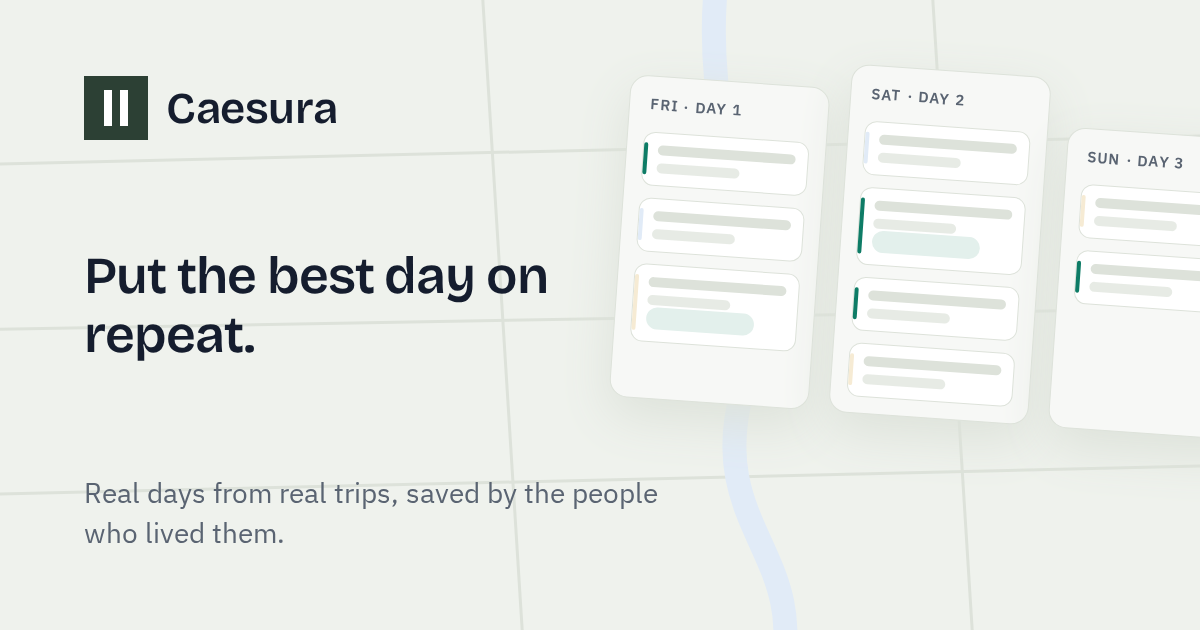
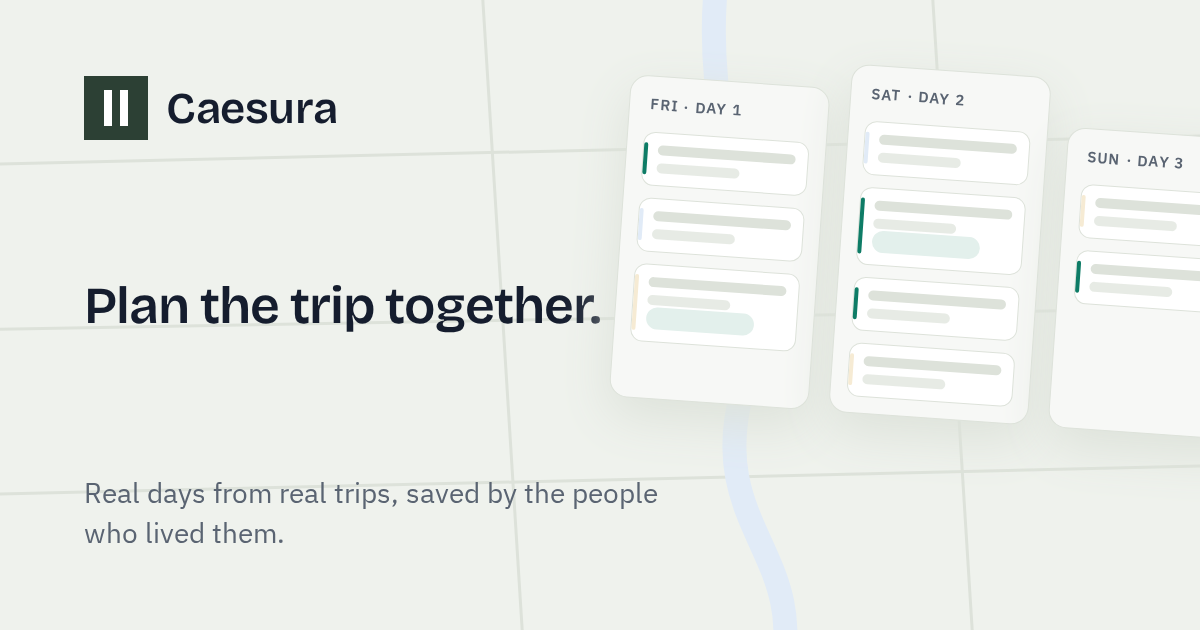
fix(front): M50 part 1, copy fixes end to end
The H1 becomes "Plan the trip together." on both trees, the site
description, OG alt and regenerated OG card. The signup footnote drops the
open-source line (here and in the design handoff), the admission refusals
say codes are optional and only earn referral credit, /developers loses its
prose em dashes and says "sign up", the Playbooks drawing's "Relived 214
times" carries a Sample badge, and the trip assistant gets a standing tone
line with the context-budget baseline regenerated.

Claude-Session: https://claude.ai/code/session_011DjbmukN8wKo3o3BUNFqzM

Changed region(s): [[0.0617, 0.3921, 0.4933, 0.573]]

diff --git a/apps/web/src/components/front/LandingFeatureBlocks.failed.test.tsx b/apps/web/src/components/front/LandingFeatureBlocks.failed.test.tsx
@@ -1,13 +1,15 @@
 import { UNBUILT_SOCIAL } from "@/test-support/unbuiltSocial";
 import { cleanup, render, screen, waitFor, within } from "@testing-library/react";
-import { afterEach, describe, expect, it, vi } from "vitest";
+import { afterEach, describe, expect, it, vi, type MockInstance } from "vitest";
 import { LandingFeatureBlocks } from "./LandingFeatureBlocks";
+import { PhoneFrontDoor } from "./PhoneFrontDoor";
 
 // The real panels' code never arrives (a deploy replaced the chunk, the network
 // dropped). `Suspense` does not catch a rejected `lazy` import, so without a
 // boundary of its own each block would take the front door to
 // `app/global-error.tsx`. A file of its own because `lazy` resolves once per
-// module (`LandingHeroArt.failed.test.tsx`, same reason).
+// module (`LandingHeroArt.failed.test.tsx`, same reason). The phone front door
+// draws its Playbooks fallback through the same module, so it is here too.
 vi.mock("./LandingFeaturePanels", () => Promise.reject(new Error("Failed to fetch dynamically imported module")));
 
 afterEach(() => {
@@ -15,40 +17,59 @@ afterEach(() => {
   vi.restoreAllMocks();
 });
 
+// The drawings are also what shows while loading — `LandingFeaturePanel`
+// hands the same children to `Suspense` and to the boundary — so the art
+// cannot tell "rejection landed" from "still loading", and waiting on the
+// art gates nothing. The log is the only signal, but it must be narrowed
+// to our error: the spy sees every console.error, and under load React
+// logs warnings for unrelated reasons (act warnings), so a bare
+// toHaveBeenCalled() can pass before the boundary caught the rejection and
+// the assertions run too early. Vitest wraps the mock factory's rejection
+// in its own error ("There was an error when mocking a module"); our
+// original error rides along as its `cause`. Nothing else logged here is
+// an Error with that cause.
+async function landedRejection(logged: MockInstance<typeof console.error>) {
+  await waitFor(() => {
+    expect(
+      logged.mock.calls.some((args) =>
+        args.some(
+          (a) =>
+            a instanceof Error &&
+            a.cause instanceof Error &&
+            a.cause.message.includes("Failed to fetch dynamically imported module"),
+        ),
+      ),
+    ).toBe(true);
+  });
+}
+
 describe("LandingFeatureBlocks when the real panels fail to load", () => {
   it("keeps each block's drawing, and the blocks around it", async () => {
     // React logs the caught error; it is the expected one, not noise to hide.
     const logged = vi.spyOn(console, "error").mockImplementation(() => {});
     render(<LandingFeatureBlocks />);
-
-    // The drawings are also what shows while loading — `LandingFeaturePanel`
-    // hands the same children to `Suspense` and to the boundary — so the art
-    // cannot tell "rejection landed" from "still loading", and waiting on the
-    // art gates nothing. The log is the only signal, but it must be narrowed
-    // to our error: the spy sees every console.error, and under load React
-    // logs warnings for unrelated reasons (act warnings), so a bare
-    // toHaveBeenCalled() can pass before the boundary caught the rejection and
-    // the assertions run too early. Vitest wraps the mock factory's rejection
-    // in its own error ("There was an error when mocking a module"); our
-    // original error rides along as its `cause`. Nothing else logged here is
-    // an Error with that cause.
-    await waitFor(() => {
-      expect(
-        logged.mock.calls.some((args) =>
-          args.some(
-            (a) =>
-              a instanceof Error &&
-              a.cause instanceof Error &&
-              a.cause.message.includes("Failed to fetch dynamically imported module"),
-          ),
-        ),
-      ).toBe(true);
-    });
-    expect(within(screen.getByRole("region", { name: "Relive someone’s perfect day." })).getByText("A perfect Phuket beach day")).toBeDefined();
+    await landedRejection(logged);
+    const playbooks = within(screen.getByRole("region", { name: "Relive someone’s perfect day." }));
+    expect(playbooks.getByText("A perfect Phuket beach day")).toBeDefined();
+    // M50 decision 13: the drawing's count is invented, so it says so.
+    expect(playbooks.getByText("Sample")).toBeDefined();
     expect(within(screen.getByRole("region", { name: "The trip starts before the trip." })).getByText("Pontocho, maybe")).toBeDefined();
     expect(within(screen.getByRole("region", { name: "How you’ll remember it." })).getByText(/best night of the trip/)).toBeDefined();
     // The drawings picture only what trips have: suggestions and past changes,
     // not replies or anybody "here now" (Mitchell, 2026-10-11).
     expect(screen.queryAllByText(UNBUILT_SOCIAL).map((el) => el.textContent)).toEqual([]);
+  });
+});
+
+describe("PhoneFrontDoor when the real panels fail to load", () => {
+  // M50 decision 13, at phone width: "Relived 214 times" is the drawing's
+  // number, not a real day's, and is labelled so.
+  it("labels the Playbooks drawing's count a sample", async () => {
+    const logged = vi.spyOn(console, "error").mockImplementation(() => {});
+    render(<PhoneFrontDoor />);
+    await landedRejection(logged);
+    const playbooks = within(screen.getAllByTestId("front-door-claim")[0]!);
+    expect(playbooks.getByText(/Relived 214 times/)).toBeDefined();
+    expect(playbooks.getByText("Sample")).toBeDefined();
   });
 });

diff --git a/apps/web/src/components/front/AuthScreen.test.tsx b/apps/web/src/components/front/AuthScreen.test.tsx
@@ -220,10 +220,10 @@ describe("AuthScreen", () => {
   // M11a link 6. Three refusals, three next actions — a shared message would
   // be a dead end for two of the three people who see it, so each is asserted
   // on a phrase only it contains, and on NOT being the generic fallback.
-  it("tells someone with no invite at all where to get one", () => {
+  it("tells someone with no invite at all that they no longer need one", () => {
     searchParams = new URLSearchParams("error=MISSING_INVITE_CODE");
     render(<AuthScreen mode="signin" devLoginEnabled={false} googleAvailable />);
-    expect(screen.getByText(/Caesura is invite-only while it is small/)).toBeDefined();
+    expect(screen.getByText(/Invite codes are no longer required/)).toBeDefined();
     expect(screen.queryByText(/Something went wrong signing you in/)).toBeNull();
     expect(screen.queryByText("MISSING_INVITE_CODE")).toBeNull();
   });
@@ -232,11 +232,11 @@ describe("AuthScreen", () => {
   // line joining two instructions with an em dash, which buried the second one.
   // The paragraph split is the fix, so it is the thing worth pinning: asserting
   // only on the words would still pass if they collapsed back into one block.
-  it("breaks the missing-invite refusal into why-shut and what-to-do paragraphs", () => {
+  it("breaks the missing-invite refusal into why and what-to-do paragraphs", () => {
     searchParams = new URLSearchParams("error=MISSING_INVITE_CODE");
     render(<AuthScreen mode="signin" devLoginEnabled={false} googleAvailable />);
 
-    const why = screen.getByText(/we are requiring invite codes at this time/);
+    const why = screen.getByText(/Invite codes are no longer required/);
     const what = screen.getByText(/Follow Create an account below/);
 
     expect(why.tagName).toBe("P");
@@ -264,6 +264,35 @@ describe("AuthScreen", () => {
     expect(screen.queryByText("SPENT_INVITE_CODE")).toBeNull();
   });
 
+  // M50 decision 12. Signup is open, so a refusal that still says the door is
+  // shut sends away someone who could have walked in. The three keys stay
+  // (the `AdmissionRefusal` contract is unchanged); each now says a code is
+  // optional and only earns referral credit, and none joins two thoughts with
+  // an em dash.
+  it.each(["MISSING_INVITE_CODE", "INVALID_INVITE_CODE", "SPENT_INVITE_CODE"])(
+    "tells someone refused with %s that they can sign up without a code",
+    (code) => {
+      searchParams = new URLSearchParams({ error: code });
+      render(<AuthScreen mode="signin" devLoginEnabled={false} googleAvailable />);
+      const status = screen.getByRole("status").textContent ?? "";
+      expect(status).toMatch(/referral credit/);
+      expect(status).not.toMatch(/invite-only|requiring invite codes/i);
+      expect(status).not.toContain("—");
+    },
+  );
+
+  // SPEC §14's copy rule, on the auth screens (the landing's own guard is in
+  // LandingScreen.test.tsx): no "open source", and no claim that Caesura is
+  // invite-only now that anyone can sign up.
+  it.each([
+    ["signup", ""],
+    ["signin", "error=MISSING_INVITE_CODE"],
+  ] as const)("never calls Caesura open source or invite-only in %s mode (%j)", (mode, query) => {
+    searchParams = new URLSearchParams(query);
+    render(<AuthScreen mode={mode} devLoginEnabled={false} googleAvailable />);
+    expect(screen.queryAllByText(/open[ -]source|invite-only/i).map((el) => el.textContent)).toEqual([]);
+  });
+
   // The refusals are a closed set (`AdmissionRefusal` in @tc/contracts) and
   // `errorMessage` parses the param against it rather than indexing a map, so
   // nothing that merely *looks* like one of ours gets our copy: wrong case, a
@@ -280,7 +309,7 @@ describe("AuthScreen", () => {
     searchParams = new URLSearchParams({ error: code });
     render(<AuthScreen mode="signin" devLoginEnabled={false} googleAvailable />);
     expect(screen.getByText(/Something went wrong signing you in/)).toBeDefined();
-    expect(screen.queryByText(/Caesura is invite-only while it is small/)).toBeNull();
+    expect(screen.queryByText(/Invite codes are no longer required/)).toBeNull();
   });
 
   // Adding the admission map must not have cost the Auth.js codes their
@@ -545,7 +574,7 @@ describe("AuthScreen", () => {
   // Google works, so it stays even when Google is unavailable.
   it("keeps the generic terms footnote in signup mode even when Google is unavailable", () => {
     render(<AuthScreen mode="signup" devLoginEnabled={false} googleAvailable={false} />);
-    expect(screen.getByText(/By continuing you agree to the terms/)).toBeDefined();
+    expect(screen.getByText("By continuing you agree to the terms and the privacy notice.")).toBeDefined();
   });
 
   it("still runs the dev-login form when Google is unavailable but dev login is enabled", async () => {

diff --git a/apps/web/src/components/front/authCopy.ts b/apps/web/src/components/front/authCopy.ts
@@ -56,8 +56,7 @@ export const AUTH_COPY: Record<AuthMode, AuthCopy> = {
     swapPrompt: "Already planning a trip here?",
     swapCta: "Sign in",
     swapHref: "/signin",
-    footnote:
-      "By continuing you agree to the terms and the privacy notice. Caesura is open source — you can read exactly what it stores.",
+    footnote: "By continuing you agree to the terms and the privacy notice.",
   },
   signin: {
     title: "Welcome back",
@@ -123,18 +122,20 @@ const ERROR_MESSAGES: Record<string, string> = {
 // with, because this is the front door's failure state — a dead end here is a
 // person who never comes back. The "Create an account" they point at is this
 // screen's own swap CTA (`AUTH_COPY.signin.swapCta`), so the instruction stays
-// true as long as the screen does.
+// true as long as the screen does. Since M50 (decision 12) each also says the
+// code is optional and only earns referral credit: telling someone the door is
+// shut when it is open is the dead end this copy exists to avoid.
 const ADMISSION_MESSAGES: Record<AdmissionRefusal, string> = {
   // Two paragraphs, split on the blank line by `Banner`'s caller. One dense
-  // line was doing two jobs — saying why the door is shut, then what to do
-  // about it — and the em dash that joined the two instructions hid the second
-  // one inside the first (2026-09-06 preview feedback, finding 2).
+  // line was doing two jobs — saying why, then what to do about it — and the
+  // em dash that joined the two instructions hid the second one inside the
+  // first (2026-09-06 preview feedback, finding 2).
   MISSING_INVITE_CODE:
-    "Caesura is invite-only while it is small, so we are requiring invite codes at this time.\n\nFollow Create an account below and enter your invite code. If someone invited you to their trip, open that invite link instead and it admits you on its own.",
+    "Invite codes are no longer required, so you do not need one to join.\n\nFollow Create an account below to sign up. A code only earns referral credit for whoever shared it, so leave it empty if you have none.",
   INVALID_INVITE_CODE:
-    "That invite code is not one of ours. Check it for a typo or a stray space and try again under Create an account — if it still will not take, ask whoever invited you for a fresh one.",
+    "That invite code is not one of ours. You do not need one: follow Create an account below and sign up with the code left empty. A code only earns referral credit for whoever shared it.",
   SPENT_INVITE_CODE:
-    "That invite code has already been used, and each one works only once. Ask whoever invited you for a new code — or open the trip invite link they sent you, which admits you without a code at all.",
+    "That invite code has already been used, and each one works only once. You do not need one: follow Create an account below and sign up with the code left empty. A code only earns referral credit for whoever shared it.",
 };
 
 const FALLBACK =

diff --git a/apps/web/src/components/front/DevelopersScreen.tsx b/apps/web/src/components/front/DevelopersScreen.tsx
@@ -117,8 +117,8 @@ export function DevelopersScreen() {
           <ol className="flex flex-col gap-6">
             <Step n={1} title="Create your account">
               <Text className="text-pretty">
-                Go to <InlineLink href="/signup">Create an account</InlineLink> and continue with Google —
-                anyone can sign up. If somebody sent you an invite code, paste it into{" "}
+                Go to <InlineLink href="/signup">Create an account</InlineLink> and continue with Google.
+                Anyone can sign up. If somebody sent you an invite code, paste it into{" "}
                 <em>Invite code</em> so they get the credit; otherwise leave it empty. Already have an
                 account? <InlineLink href="/signin">Sign in</InlineLink>.
               </Text>
@@ -127,7 +127,7 @@ export function DevelopersScreen() {
               <Text className="text-pretty">
                 API tokens are on the Premium plan. On any other plan the API tokens section shows an
                 upgrade prompt instead of the form, and a token stops working if its owner&rsquo;s plan
-                no longer includes the API — restarting the subscription turns it back on.
+                no longer includes the API. Restarting the subscription turns it back on.
               </Text>
             </Step>
             <Step n={3} title="Make a token">
@@ -137,7 +137,7 @@ export function DevelopersScreen() {
                 30 days, 90 days or a year. Every token expires.
               </Text>
               <Text className="text-pretty">
-                <strong>The secret is shown once.</strong> Copy it then — nothing can show it again. Lose
+                <strong>The secret is shown once.</strong> Copy it then, because nothing can show it again. Lose
                 it and you revoke it and make another. Tokens start with <Code>{API_TOKEN_PREFIX}</Code>.
               </Text>
             </Step>
@@ -154,7 +154,7 @@ export function DevelopersScreen() {
               <Text variant="secondary" className="text-pretty">
                 Collections take <Code>?limit=</Code> (1–200) and an opaque <Code>?cursor=</Code>; read{" "}
                 <Code>nextCursor</Code> until it is <Code>null</Code>. Every error is{" "}
-                <Code>{`{ "error": { "code", "message", "details" } }`}</Code> — read the{" "}
+                <Code>{`{ "error": { "code", "message", "details" } }`}</Code>. Read the{" "}
                 <Code>code</Code>.
               </Text>
             </Step>

diff --git a/apps/web/src/components/front/PhoneFrontDoor.tsx b/apps/web/src/components/front/PhoneFrontDoor.tsx
@@ -3,6 +3,7 @@
 import { type ReactNode, useEffect, useRef } from "react";
 import Link from "next/link";
 import { BrandMark } from "@/components/BrandMark";
+import { Badge } from "@/components/ui/badge";
 import { LandingFeaturePanel } from "@/components/front/LandingFeaturePanel";
 import { LandingPricing } from "@/components/front/LandingPricing";
 import { buttonVariants } from "@/components/ui/button";
@@ -143,9 +144,13 @@ const CLAIMS: readonly { label: string; body: string; example?: ReactNode }[] = 
               4.8 ★
             </DataText>
           </span>
-          <Text as="span" className="text-xs text-slate">
-            6 stops · Relived 214 times
-          </Text>
+          {/* A drawing's number, not a real day's (M50 decision 13). */}
+          <span className="flex items-center gap-2">
+            <Text as="span" className="text-xs text-slate">
+              6 stops · Relived 214 times
+            </Text>
+            <Badge variant="neutral" className="flex-none px-1.5 text-3xs tracking-wider uppercase">Sample</Badge>
+          </span>
           <span className="flex items-center gap-2 rounded-lg bg-moss px-2.5 py-2">
             <Text as="span" className="text-xs text-ink">
               Dropping in as Day 2 — times shift to fit.
@@ -490,7 +495,7 @@ export function PhoneFrontDoor() {
                   headline as the document's one <h1>; CSS shows one tree per
                   breakpoint, and a crawler reads both. */}
               <Heading level={2} aria-level={1} className="mt-2 text-3xl">
-                Put the best day on repeat.
+                Plan the trip together.
               </Heading>
             </div>
 

diff --git a/apps/web/e2e/responsive.spec.ts b/apps/web/e2e/responsive.spec.ts
@@ -894,7 +894,7 @@ test.describe("responsive (narrow viewport, signed out)", () => {
       await page.setViewportSize({ width, height: 900 });
       await page.goto("/");
       await expect(
-        page.getByRole("heading", { name: "Put the best day on repeat." }),
+        page.getByRole("heading", { name: "Plan the trip together." }),
       ).toBeVisible();
 
       const offenders = await page.evaluate(() => {
@@ -980,7 +980,7 @@ test.describe("responsive (narrow viewport, signed out)", () => {
       // it is also the thing most able to push the page sideways: four
       // absolutely-positioned claims translating horizontally under a headline.
       await expect(
-        page.getByRole("heading", { name: "Put the best day on repeat." }),
+        page.getByRole("heading", { name: "Plan the trip together." }),
       ).toBeVisible();
       await expect(page.getByTestId("phone-front-door")).toBeVisible();
       await expect(page.getByTestId("front-door-claim").first()).toBeVisible();

diff --git a/apps/web/e2e/m15-front-door.spec.ts b/apps/web/e2e/m15-front-door.spec.ts
@@ -21,7 +21,7 @@ test("landing → sign in → first trip → sign out", async ({ page }) => {
   await page.goto("/");
   await expect(page).toHaveURL(/\/$/);
   await expect(
-    page.getByRole("heading", { name: "Put the best day on repeat." }),
+    page.getByRole("heading", { name: "Plan the trip together." }),
   ).toBeVisible();
 
   // SPEC §14's copy rules: no "free" on the page at all (the retro's "Free
@@ -116,7 +116,7 @@ test("landing → sign in → first trip → sign out", async ({ page }) => {
   // To the landing, and it stays there: sign-out took the signed-in hint
   // with it, so the landing's script has nothing to send it to Home on.
   await expect(page).toHaveURL(/\/$/);
-  await expect(page.getByRole("heading", { name: "Put the best day on repeat." })).toBeVisible();
+  await expect(page.getByRole("heading", { name: "Plan the trip together." })).toBeVisible();
 });
 
 // ADR-078: Home moved from `/` to `/home`, and `/` became a static page that

diff --git a/.design-sync/handoff/design/Trip Planner Redesign.dc.html b/.design-sync/handoff/design/Trip Planner Redesign.dc.html
@@ -5412,7 +5412,7 @@ body > div.fixed.inset-0, body > div[data-state][aria-hidden] { z-index: 300; }
         </x-import>
 
         <sc-if value="{{ isSignup }}" hint-placeholder-val="{{ false }}">
-          <p style="margin: 0; font-size: 12px; line-height: 1.5; color: var(--color-slate); text-wrap: pretty;">By continuing you agree to the terms and the privacy notice. Caesura is open source — you can read exactly what it stores.</p>
+          <p style="margin: 0; font-size: 12px; line-height: 1.5; color: var(--color-slate); text-wrap: pretty;">By continuing you agree to the terms and the privacy notice.</p>
         </sc-if>
         <sc-if value="{{ isSignin }}" hint-placeholder-val="{{ false }}">
           <p style="margin: 0; font-size: 12.5px; line-height: 1.5; color: var(--color-slate); text-wrap: pretty;">Invited to someone's trip? Sign in with the address the invite went to and it'll be waiting.</p>

diff --git a/apps/web/src/server/ai/handleAskRequest.ts b/apps/web/src/server/ai/handleAskRequest.ts
@@ -2051,6 +2051,9 @@ export function instructionBlocks(
       ? `This question is about DAY ${scope.dayIndex + 1}. Answer about that day. Do not summarise the other days: you may read one if the user explicitly asks about it, but an answer that wanders off the day it was asked about is the wrong answer.`
       : "This question is about the trip as a whole.",
     "Answer in prose, briefly — a sentence or three. No headings, no bullet lists unless the user asks for a list.",
+    // M50 decision 10: the voice. Unconditional and free of anything per-turn,
+    // so it adds to the cached prefix without ever varying it between steps.
+    "Talk like a friend who has been there, plain, specific, no filler.",
   ];
   // `formatExampleBlocks([])` is `[]`: with no examples this is the same
   // array of blocks as before Part 4, which is the flag-off guarantee.

diff --git a/apps/web/src/lib/siteMetadata.ts b/apps/web/src/lib/siteMetadata.ts
@@ -19,7 +19,7 @@ export const SITE_NAME = "Caesura";
 // The landing hero (LandingScreen.tsx), headline + the sub's first sentence,
 // joined.
 export const SITE_DESCRIPTION =
-  "Put the best day on repeat. Caesura is a trip planner built on playbooks: " +
+  "Plan the trip together. Caesura is a trip planner built on playbooks: " +
   "real days from real trips, saved by the people who lived them.";
 
 // The committed card next to the root layout (src/app/opengraph-image.png —
@@ -34,7 +34,7 @@ const OG_IMAGE = {
   url: "/opengraph-image.png",
   width: 1200,
   height: 630,
-  alt: "Caesura — put the best day on repeat. A day-column trip board beside the wordmark.",
+  alt: "Caesura. Plan the trip together. A day-column trip board beside the wordmark.",
 };
 
 /** Robots metadata for a page that must stay out of every index and pass no links. */

diff --git a/apps/web/src/components/front/DevelopersScreen.test.tsx b/apps/web/src/components/front/DevelopersScreen.test.tsx
@@ -27,6 +27,13 @@ describe("DevelopersScreen", () => {
     expect(screen.getByRole("link", { name: "Create an account" }).getAttribute("href")).toBe("/signup");
   });
 
+  // M50: the steps are read by a person setting up an agent, often pasted
+  // into one, and a sentence spliced with an em dash reads as two half-thoughts.
+  it("writes the getting-started steps without em dashes", () => {
+    render(<DevelopersScreen />);
+    expect(screen.getByRole("region", { name: "From nothing to a first call" }).textContent).not.toContain("—");
+  });
+
   it("links the reference, the OpenAPI document, the api-catalog and llms.txt", () => {
     render(<DevelopersScreen />);
     const reference = within(screen.getByRole("region", { name: "The reference" }));

diff --git a/apps/web/e2e/m42-demo-trips.spec.ts b/apps/web/e2e/m42-demo-trips.spec.ts
@@ -149,7 +149,7 @@ test.describe("the front door, signed out (M42)", () => {
     const title = phone.getByTestId("discover-card").getByRole("link", { name: PLAYBOOK });
     await expect(title).toBeVisible();
 
-    const headline = await phone.getByRole("heading", { name: "Put the best day on repeat." }).boundingBox();
+    const headline = await phone.getByRole("heading", { name: "Plan the trip together." }).boundingBox();
     const card = await phone.getByTestId("discover-card").boundingBox();
     expect(card!.y).toBeGreaterThan(headline!.y + headline!.height);
     expect(card!.y + card!.height).toBeLessThanOrEqual(664);
